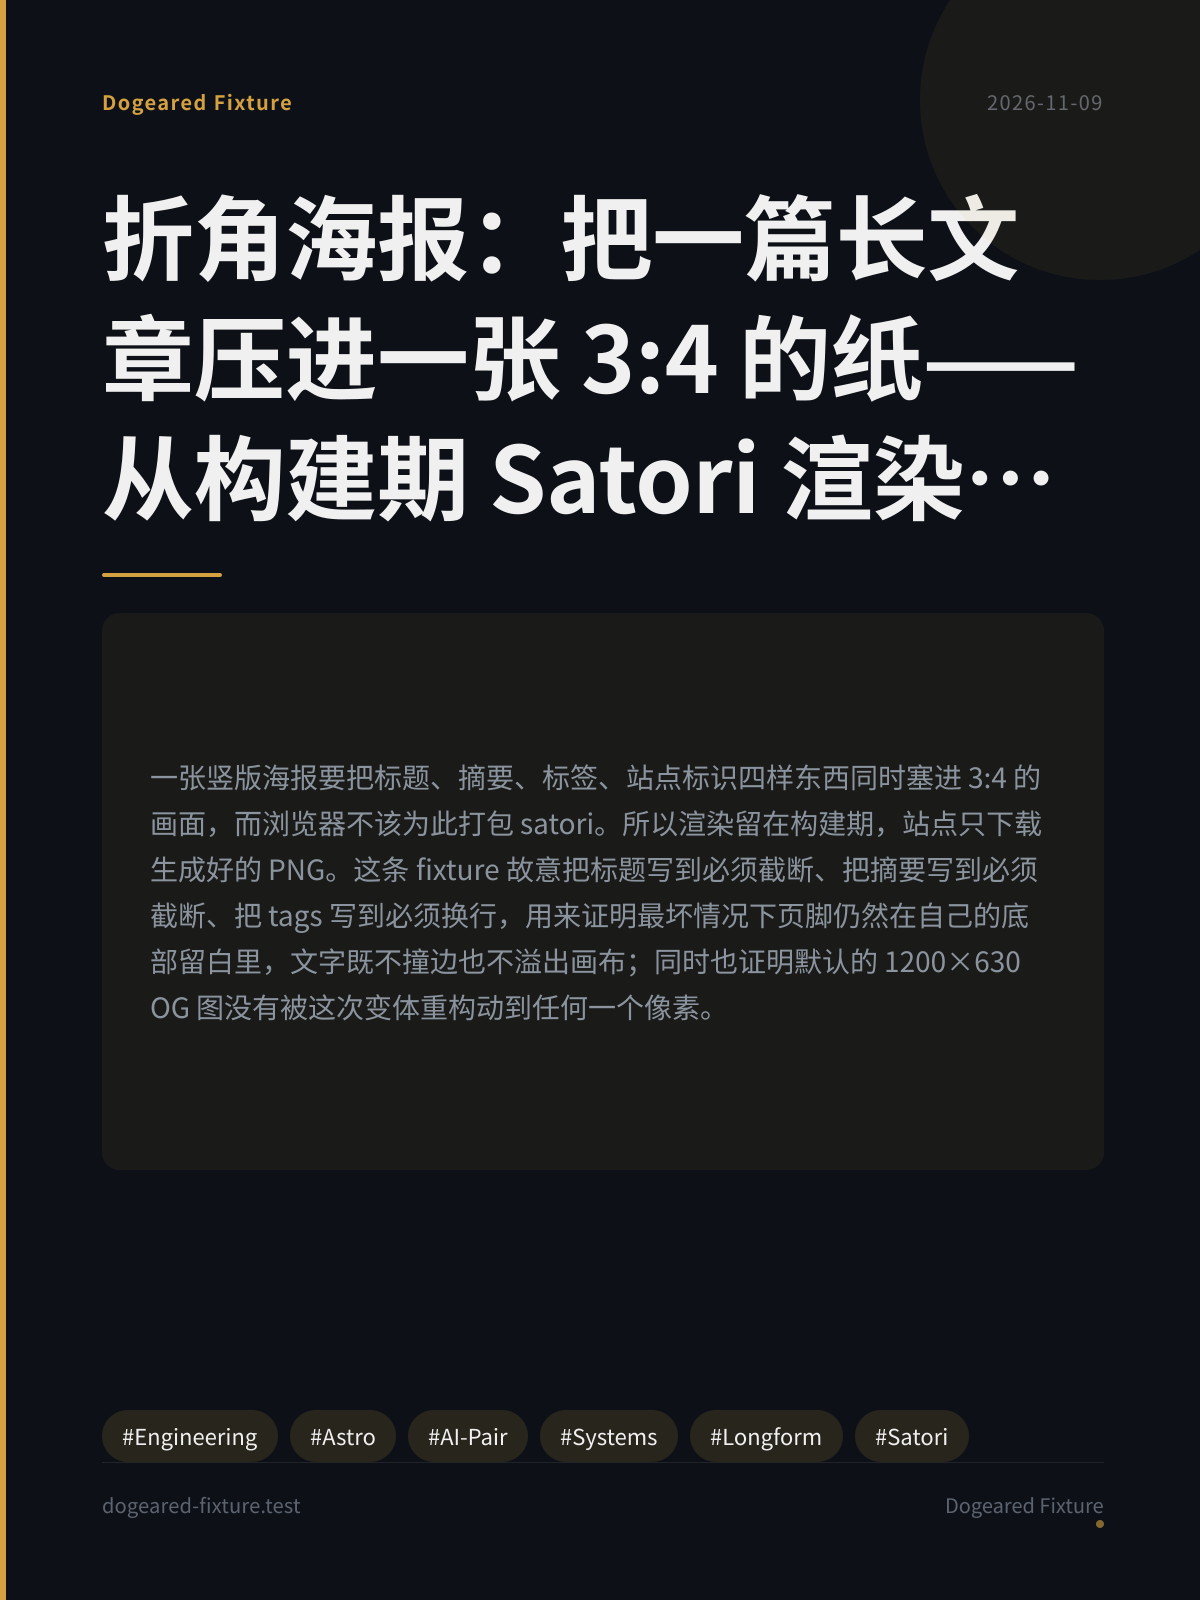
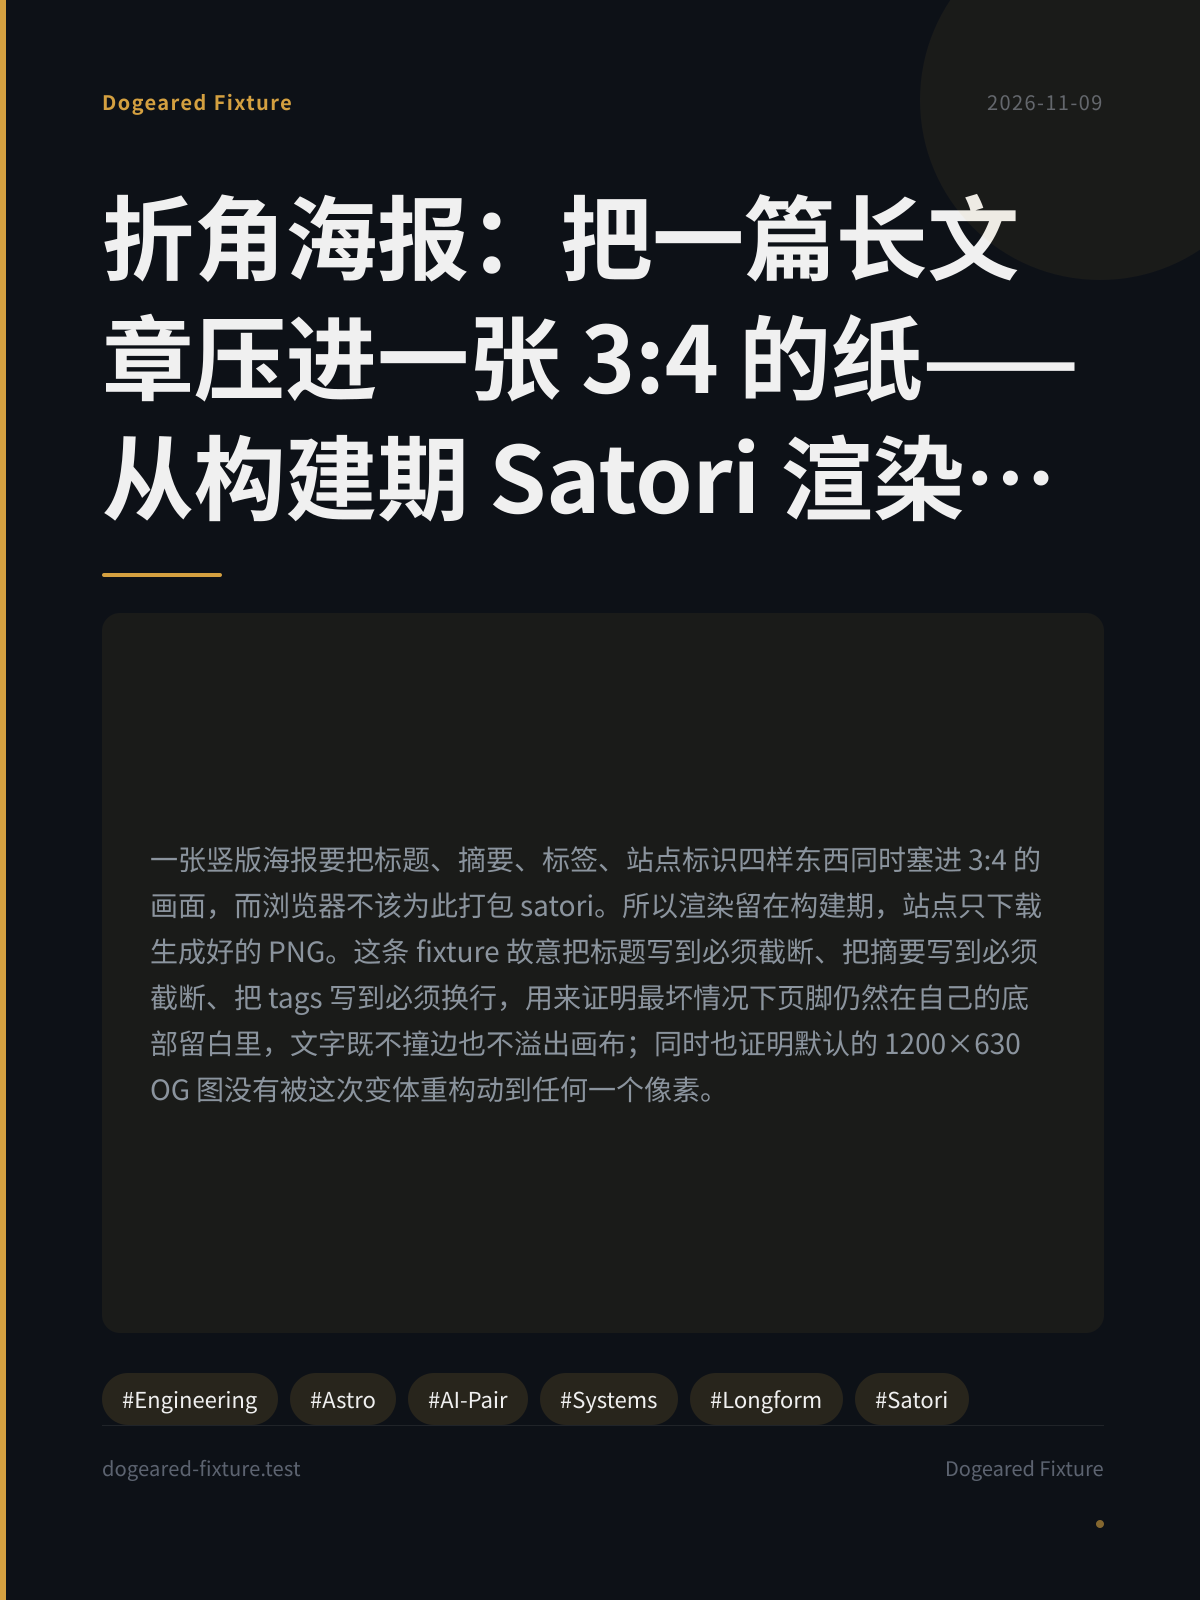
fix(poster): 摘要面板吃满剩余高度，消除 tags 前大空档

Changed region(s): [[0.1233, 0.4688, 0.8633, 0.6875], [0.0617, 0.8438, 0.8942, 0.9688]]

diff --git a/packages/og-image/src/route.ts b/packages/og-image/src/route.ts
@@ -500,7 +500,9 @@ export function createOgImageRoute(options: OgImageOptions): APIRoute {
                             : [descNode]),
                         // OG 分支：弹性空档在摘要和页脚之间（与抽取前一致）；
                         // 海报分支把 tags 行拉到同一个空档之下，形成「内容块 + 底部轨道」。
-                        { type: "div", props: { style: { flexGrow: 1 } } },
+                        // 有 tags 时不要再插弹性占位：否则 descBox 的 flexGrow 只分到
+                        // 一半剩余高度，摘要与 tags 之间会留下无意义的大空档。
+                        { type: "div", props: { style: { flexGrow: tagsSpec ? 0 : 1 } } },
                         // 海报专属：tags 胶囊行（OG 分支 tags=null 或文章无 tags 时不渲染）。
                         ...(tagsSpec && chips
                             ? [

diff --git a/docs/_reviews/M7-3b-2/report.md b/docs/_reviews/M7-3b-2/report.md
@@ -81,3 +81,11 @@ corepack pnpm run build:ci                         # 477 页 + 85 张海报
 ./node_modules/.bin/playwright test e2e/poster-assets.spec.ts --reporter=line
 # 判据速记：dist/poster/*.png 全部 1200×1600 且 w*4===h*3；dist/og/*.png 仍 1200×630
 ```
+
+
+## 6. Operator 收口补记（2026-11-09）
+
+- 视觉复核发现摘要面板与 tags 之间仍有约 25% 空档：route.ts 在 descBox 之外又插了一个 `flexGrow:1` 占位，剩余高度被两者平分。
+- 已改为有 tags 时占位 `flexGrow:0`，让 descBox 的 `flexGrow:1` 吃满剩余高度（OG 分支 tags=null，占位仍为 1，默认 1200×630 不受影响）。
+- `packages/og-image` build 5/5、poster 7/7 重跑通过；`docs/_reviews/M7-3b-1/poster.png` 已重生成（180,309 B）。
+- 站点侧 85 张海报由 CI `build:ci` 重新生成；本机不再重复 5m42s 构建。
